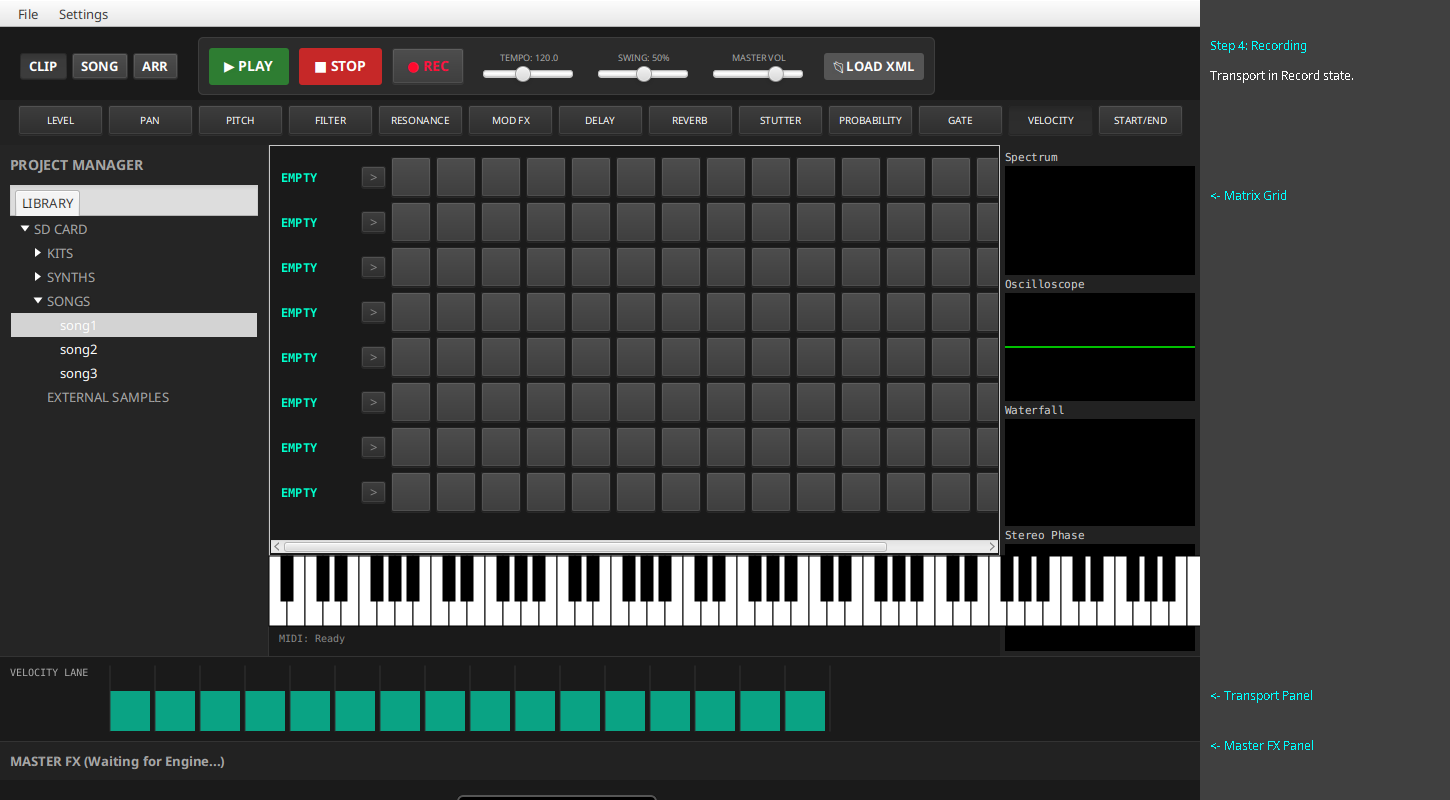
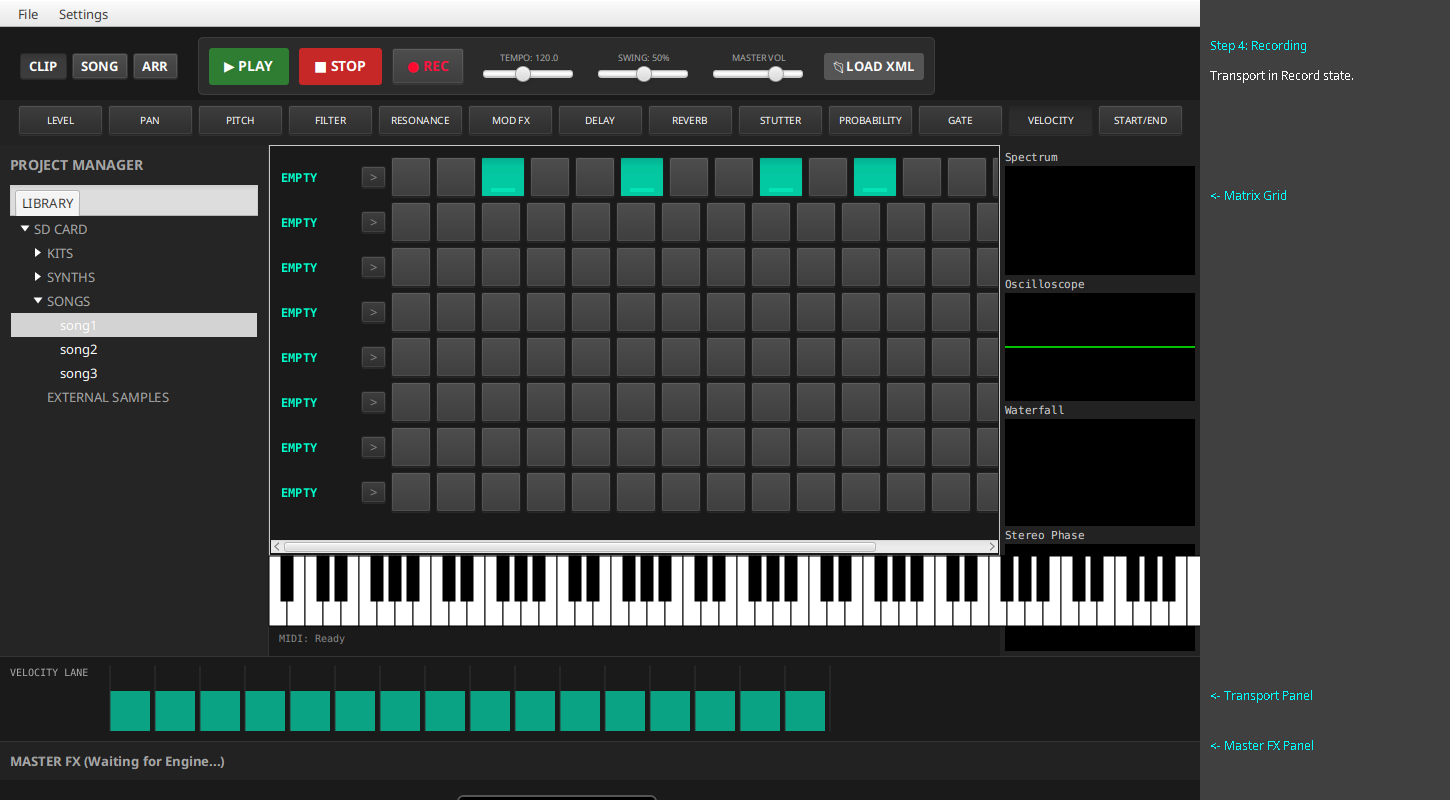
Update screenshots with populated clip view.

Changed region(s): [[0.3103, 0.1875, 0.6828, 0.25]]

diff --git a/deluge/src/test/java/org/chuck/deluge/ui/ScreenshotGenerator.java b/deluge/src/test/java/org/chuck/deluge/ui/ScreenshotGenerator.java
@@ -87,6 +87,12 @@ public class ScreenshotGenerator {
       org.chuck.deluge.model.TrackModel track1 = new org.chuck.deluge.model.KitTrackModel("KIT 0");
       org.chuck.deluge.model.ClipModel clip1 = new org.chuck.deluge.model.ClipModel("CLIP 0", 1, 16);
       clip1.setColor("#00ffcc");
+      
+      clip1.setStep(0, 2, new org.chuck.deluge.model.StepData(true, 1.0f, 1.0f, 1.0f, 0));
+      clip1.setStep(0, 5, new org.chuck.deluge.model.StepData(true, 1.0f, 1.0f, 1.0f, 0));
+      clip1.setStep(0, 8, new org.chuck.deluge.model.StepData(true, 1.0f, 1.0f, 1.0f, 0));
+      clip1.setStep(0, 10, new org.chuck.deluge.model.StepData(true, 1.0f, 1.0f, 1.0f, 0));
+      
       track1.addClip(clip1);
       
       org.chuck.deluge.model.TrackModel track2 = new org.chuck.deluge.model.SynthTrackModel("SYNTH 0");
